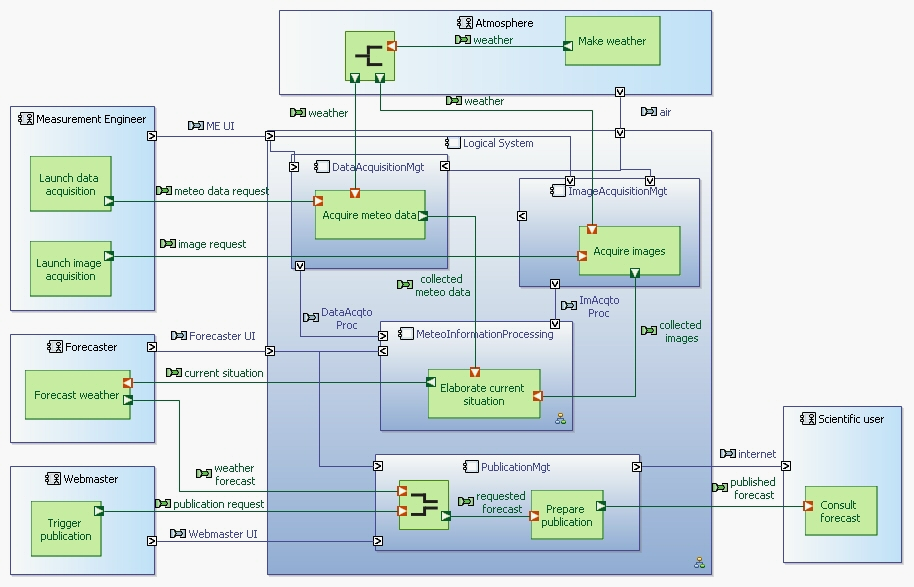
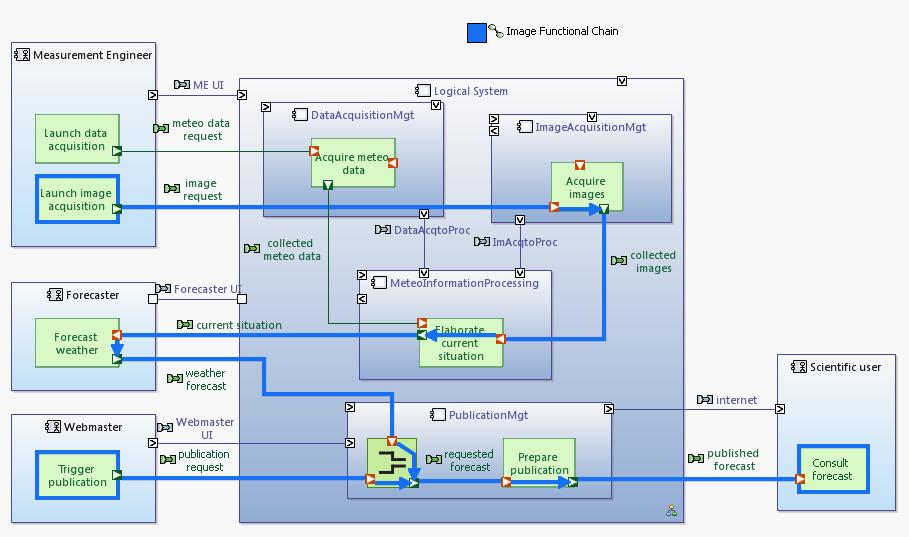
Minor update: added diagrams in getting started

diff --git a/start.html b/start.html
@@ -119,6 +119,7 @@
 						<!-- saut de ligne -->
 						<br />
 						
+	
 						<h3>Dataflows</h3>
 						<!-- la miniature -->
 						Dataflow diagrams are available in all Arcadia enginering levels. They represent information dependency between functions. These diagrams provide rich mechanisms to manage complexity: Computed simplified links between high-level functions, categorization of exchanges, etc. Functional chains can be displayed as highlighted paths. 
@@ -156,7 +157,11 @@
 						
 						<br />
 						<a href="#lab" class="zoom">
+<<<<<<< HEAD
+							<img class="center" alt="[CDB]" src="images/start/diagrams/[LAB]_Eole.png" width="80%">
+=======
 							<img class="center" alt="[LAB]" src="images/start/diagrams/[LAB]_Eole.png" width="80%">
+>>>>>>> 435fd50c399e6a74e248960e2a717f27f933813d
 						</a>
 						
 						<!-- la taille normale -->
@@ -166,6 +171,35 @@
 						
 						<!-- saut de ligne -->
 						<br />								
+
+						<br />
+						<a href="#pab" class="zoom">
+							<img class="center" alt="[CDB]" src="images/start/diagrams/pab.png" width="80%">
+						</a>
+						
+						<!-- la taille normale -->
+						<div id="pab">
+							<img style="background: #fff; box-shadow: 0px 0px 6px #111;" alt="[DFB]" src="images/start/diagrams/pab.png" />
+						</div>
+						
+						<!-- saut de ligne -->
+						<br />							
+						
+						<h3>Trees</h3>
+						<!-- la miniature -->
+						bla bla. 
+						<br />
+						<a href="#tre" class="zoom">
+							<img class="center" alt="[CDB]" src="images/start/diagrams/breakdown.png" width="80%">
+						</a>
+						
+						<!-- la taille normale -->
+						<div id="tre">
+							<img style="background: #fff; box-shadow: 0px 0px 6px #111;" alt="[DFB]" src="images/start/diagrams/breakdown.png" />
+						</div>
+						
+						<!-- saut de ligne -->
+						<br />	
 						
 						<h3>Sequence Diagrams</h3>
 						<!-- la miniature -->
